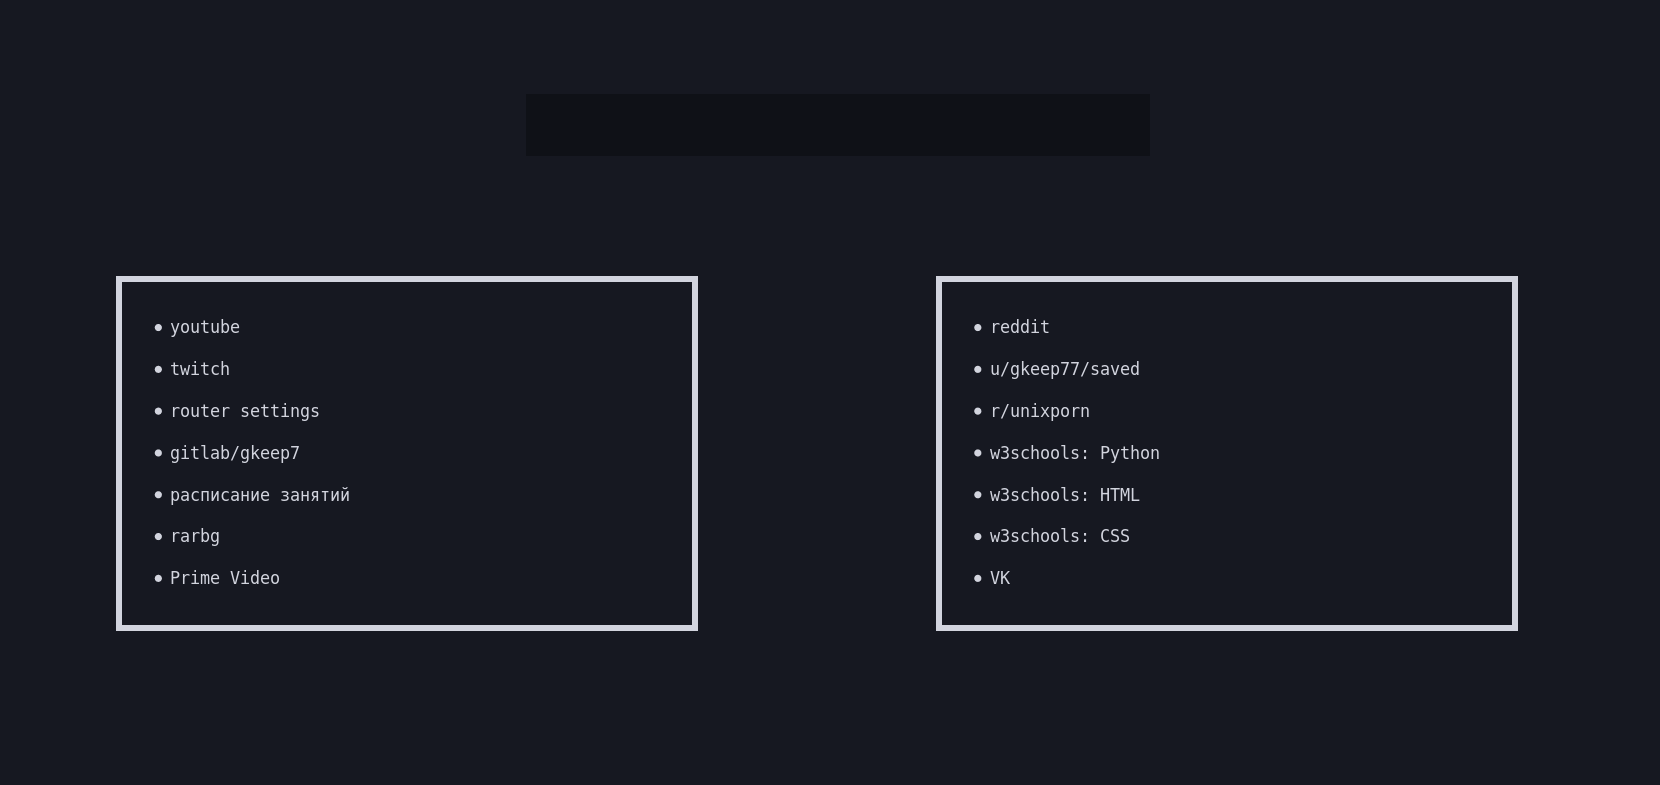
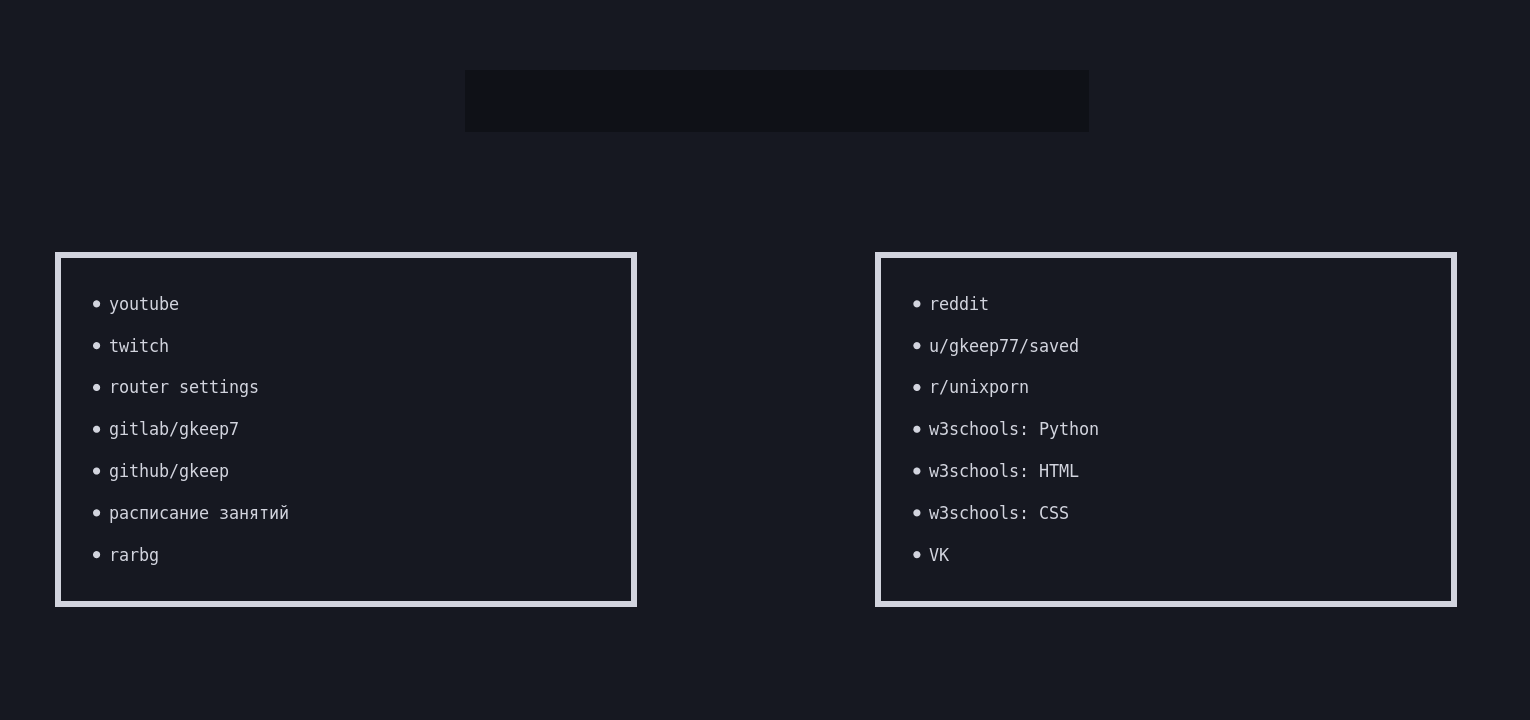
Update startpage

Changed region(s): [[0.5529, 0.3361, 0.9523, 0.8556], [0.0307, 0.3361, 0.4301, 0.8556]]

diff --git a/startpage/index.html b/startpage/index.html
@@ -18,9 +18,9 @@
             <li><p><a href="https://www.twitch.tv/directory/following/live">twitch</a></p></li>
             <li><p><a href="http://192.168.31.1/cgi-bin/luci/web">router settings</a></p></li>
             <li><p><a href="https://gitlab.com/gkeep7/">gitlab/gkeep7</a></p></li>
+	    <li><p><a href="https://github.com/gkeep/">github/gkeep</a></p></li>
 	    <li><p><a href="http://pkgh.edu.ru/obuchenie/shedule-of-classes.html"><meta http-equiv="content-type" content="text/html;charset=utf-8"/>расписание занятий</a></p></li>
             <li><p><a href="https://rarbgmirror.xyz/torrents.php">rarbg</a></p></li>
-	    <li><p><a href="https://www.primevideo.com/">Prime Video</a></p></li>
         </ul>
     </div>
     <div class="mother">
